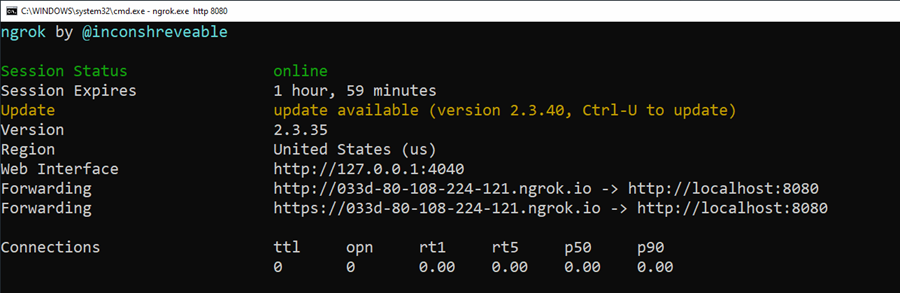
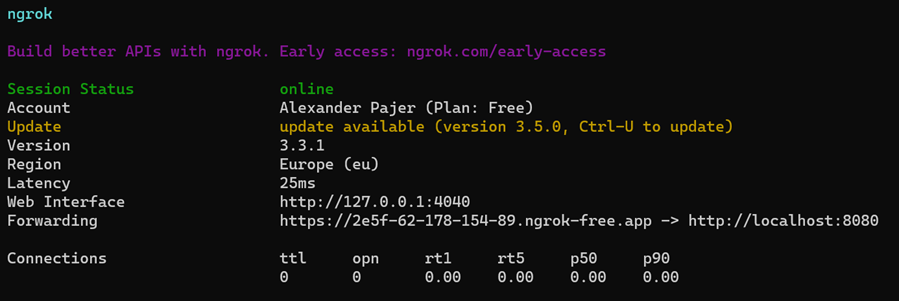
feat: pwa update to latest
* feat: pwa update to latest

diff --git a/demos/09-microfrontends/01-microfontend/food-orders-dashboard/src/environments/environment.ts b/demos/09-microfrontends/01-microfontend/food-orders-dashboard/src/environments/environment.ts
@@ -5,5 +5,5 @@ declare global {
 }
 
 export const environment = {
-  funcWebhookEP: window['env']["FUNC_EP"] || 'https://foodorders-14056.azurewebsites.net/api',
+  funcWebhookEP: window['env']["FUNC_EP"] || 'https://foodorders-31135.azurewebsites.net/api',
 };

diff --git a/demos/09-microfrontends/02-pwa/food-orders-dashboard-pwa/src/environments/environment.ts b/demos/09-microfrontends/02-pwa/food-orders-dashboard-pwa/src/environments/environment.ts
@@ -5,5 +5,5 @@ declare global {
 }
 
 export const environment = {
-  funcWebhookEP: window['env']["FUNC_EP"] || 'https://foodorders-7714.azurewebsites.net/api',
+  funcWebhookEP: window['env']["FUNC_EP"] || 'https://foodorders-31135.azurewebsites.net/api',
 };

diff --git a/demos/09-microfrontends/02-pwa/food-orders-dashboard-pwa/src/assets/env.js b/demos/09-microfrontends/02-pwa/food-orders-dashboard-pwa/src/assets/env.js
@@ -1,4 +1,4 @@
 (function (window) {
   window["env"] = window["env"] || {};
-  window["env"]["FUNC_EP"] = " https://foodorders-7714.azurewebsites.net/api";
+  window["env"]["FUNC_EP"] = " https://foodorders-31135.azurewebsites.net/api";
 })(this);

diff --git a/demos/09-microfrontends/01-microfontend/food-orders-dashboard/src/environments/environment.development.ts b/demos/09-microfrontends/01-microfontend/food-orders-dashboard/src/environments/environment.development.ts
@@ -1,3 +1,3 @@
 export const environment = {
-  funcWebhookEP: 'https://foodorders-14056.azurewebsites.net/api',
+  funcWebhookEP: 'https://foodorders-31135.azurewebsites.net/api',
 };

diff --git a/demos/09-microfrontends/02-pwa/food-orders-dashboard-pwa/src/environments/environment.development.ts b/demos/09-microfrontends/02-pwa/food-orders-dashboard-pwa/src/environments/environment.development.ts
@@ -1,3 +1,3 @@
 export const environment = {
-  funcWebhookEP: 'https://foodorders-7714.azurewebsites.net/api',
+  funcWebhookEP: 'https://foodorders-31135.azurewebsites.net/api',
 };

diff --git a/demos/09-microfrontends/02-pwa/readme.md b/demos/09-microfrontends/02-pwa/readme.md
@@ -15,10 +15,11 @@
 ---
 ### Machine Setup
 
-Allow Chrome to use self signed localhost certs:
+Allow Chrome / Edge to use self signed localhost certificates:
 
 ```
 chrome://flags/#allow-insecure-localhost
+edge://flags/#allow-insecure-localhost
 ```
 
 #### ngrok Setup
@@ -27,13 +28,46 @@ chrome://flags/#allow-insecure-localhost
 
 After creating your free account copy ngrok.exe to a folder of your choice (`C:\Program Files\ngrok`) and set a path variable to it.
 
-Next grap the auth token from your ngrok user info and add it to your machine config:
+Next grab the auth token from your ngrok user info and add it to your machine config:
 
 ```
 ngrok config add-authtoken <auth-token>
 ```
 
----
+### Food Orders Dashboard PWA
+
+- Update the `funcWebhookEP` in the following files:
+
+  - environments/environment.ts
+  - environments/environment.development.ts
+  - assets/env.js
+
+  >Note: assets/env.js is used to inject the configuration when using a container.
+
+- To serve the build you need an http-server. Use `angular-http-server` or `http-server`
+
+  ```bash
+  npm install -g angular-http-server
+  ng build -c production
+  cd .\dist\food-orders-dashboard\
+  angular-http-server
+  ```
+
+  >Note: angular-http-server listens to port 8080 by default. If you want to use another port use `angular-http-server -p <port>`.
+
+- Serve the build using ngrok:
+
+  ```bash
+  ngrok.exe http 8080
+  ```
+
+  ![ngrok](_images/ngrok.png)
+
+- You will need to add the ngrok Url to the CORS settings of the Azure Function App:
+
+  ![cors](_images/cors.png)
+
+- Open the Url provided by ngrok in your browser
 
 ### Skills Api
 
@@ -97,7 +131,7 @@ Test the app - see if it works
 
 ---
 
-### Serving your app using ngrok & install the PWA
+Serving your app using ngrok & install the PWA
 
 To serve the build you need an http-server. Use `angular-http-server` or `http-server`
 
